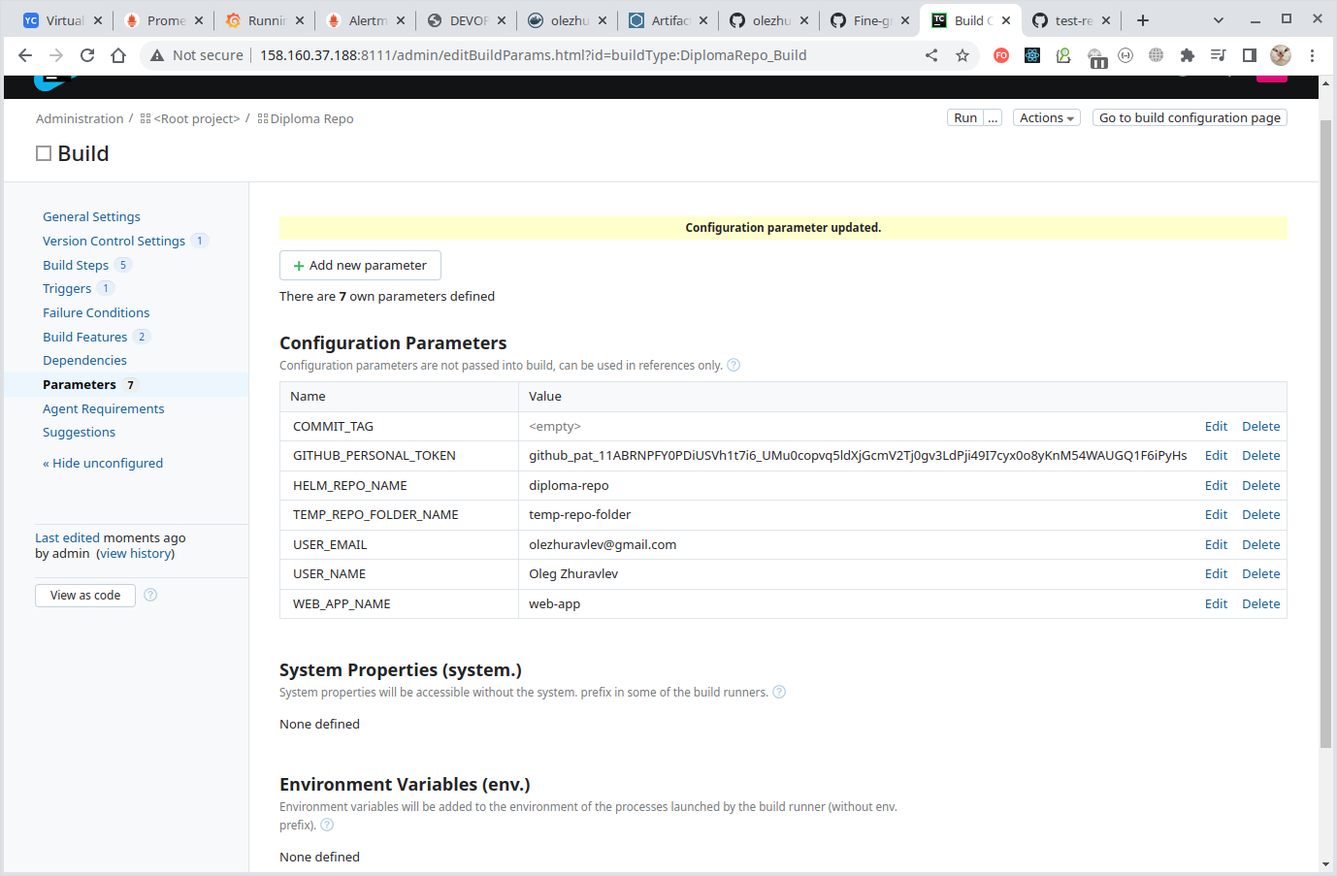
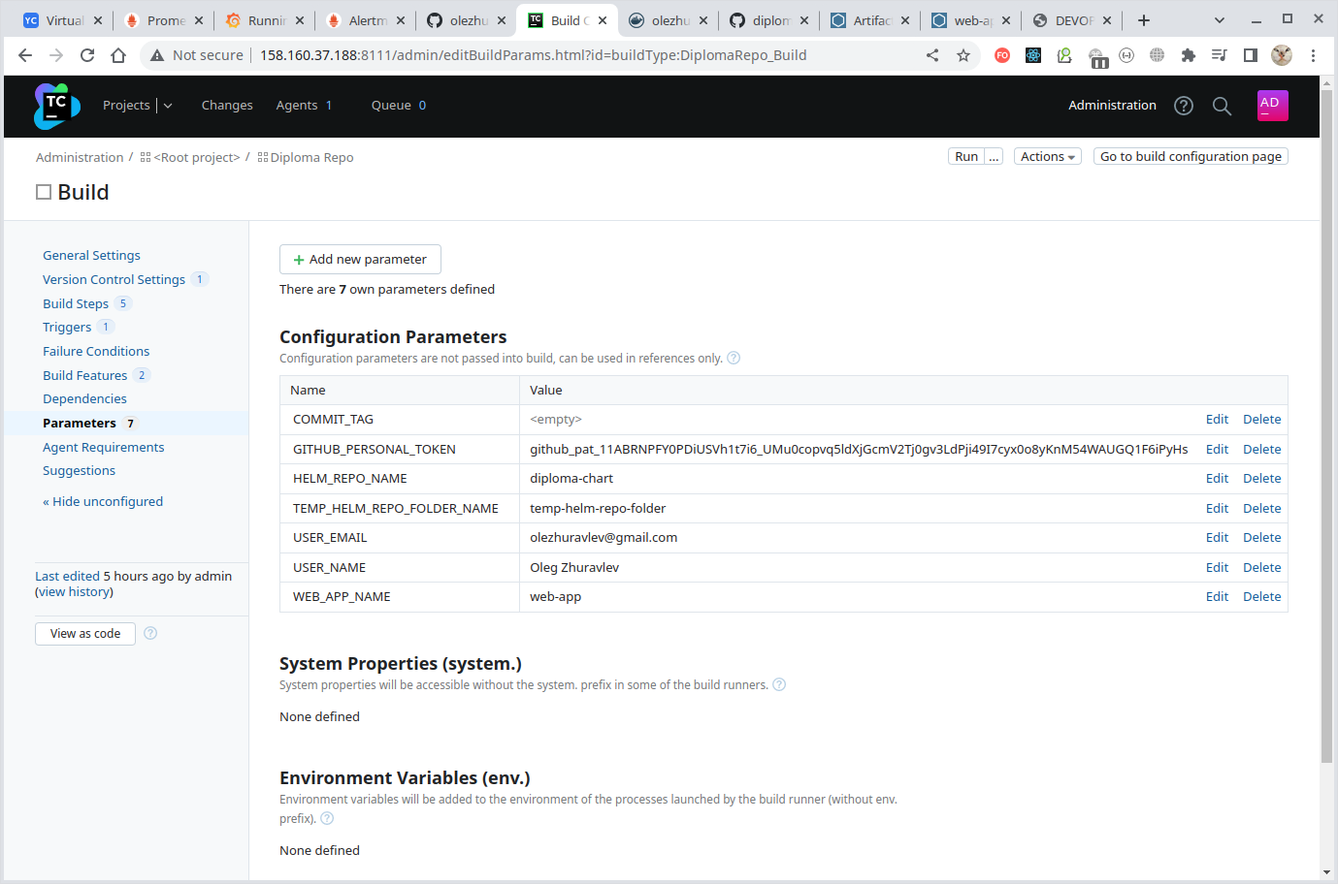
Nearly done.

diff --git a/16-diploma-yc/16.md b/16-diploma-yc/16.md
@@ -1583,7 +1583,7 @@ docker_container:
 
 > Команда `docker -v` возвращает только номер версии **клиента** Docker.
 
-#### Настройка процедуры сборки в Teamcity
+#### Предварительная настройка Teamcity
 
 После установки и запуска как сервера, так и агента Teamcity необходимо сконфигурировать процесс сборки.
 
@@ -1646,6 +1646,22 @@ Teamcity использует базу данных для хранения на
 
 ![tc_build_features_done.png](./images/tc_build_features_done.png)
 
+
+#### Настройка процедуры сборки в Teamcity
+
+Процедура сборки состоит из следующих шагов:
+
+| Шаг | Действие                                                                                        | Используемые команды                                                              |
+|:---:|:------------------------------------------------------------------------------------------------|:----------------------------------------------------------------------------------|
+|  1  | Получение тега последнего коммита в репозитории приложения                                      | git fetch<br/>git tag --points-at HEAD                                            |
+|  2  | Проверка соответствия коммита шаблону и сборка образа                                           | COMMIT_TAG matches [0-9]+\.[0-9]+\.[0-9]+<br/>docker build                        |
+|  3  | Отправка образа в Docker-репозиторий                                                            | docker push                                                                       |
+|  4  | Создание временной директории и получение в неё содержимого репозитория Helm                    | mkdir<br/>git clone                                                               |
+|  5  | Обновление файлов репозитория Helm, сохранение их в репозитории и удаление временной директории | sed -e<br/>helm package<br/>helm repo index<br/>git add<br/>git push<br/> rm -rdf |
+
+> Следует обращать внимание, что агент Teamcity должен иметь доступ ко всем инструментам, которые ему требуются
+> в процессе сборки, например, таким как Git или Helm!
+
 В логике нашей сборки мы хотим использовать тег, назначенный коммиту в качестве тега нашего Docker-образа.
 Для этого создадим отдельный этап, позволяющий выполнять произвольный код командной строки.
 Для этого на закладке "Build Step" выбирает тип шага "Command Line":
@@ -1654,7 +1670,7 @@ Teamcity использует базу данных для хранения на
 
 Далее, заходим в настройки этого шага задаём скрипт, который должен исполняться:
 
-![tc_step_1_cmd_retrieve_tag.png](./images/tc_step_1_cmd_retrieve_tag.png)
+![tc_step_1.png](images%2Ftc_step_1.png)
 
 **где:**
 - `commit_tag=$(git tag --points-at HEAD)` - команда получения тега последнего коммита Git и размещение
@@ -1677,137 +1693,132 @@ Teamcity использует базу данных для хранения на
 Далее следует зайти в редактирование второго шага нашей сборки - создание Docker-образа - и указать
 параметры создаваемого образа:
 
-![tc_step_2_docker_build.png](./images/tc_step_2_docker_build.png)
-
->  Обращаем внимание, что имя образа включает в себя отделённое слешем имя используемого репозитория
-> (здесь - это `olezhuravlev`)!
+![tc_step_2.png](./images/tc_step_2.png)
 
 Все необходимые поля будут заполнены автоматически, нам лишь нужно указать наименование
 собираемого образа и его тег, значение которого будет извлекаться из заполненной на первом шаге
 переменной `COMMIT_TAG`.
 
-Создадим шаг по отправке собранного образа в репозиторий. Для этого возвращаемся в настройки сборки
-(сборка -> кнопка "Edit configuration") и на закладке "Build Steps" добавляем новый шаг:
+>  Обращаем внимание, что имя образа предваряется именем используемого репозитория, обычно совпадающего с именем
+> пользователя Github (здесь - это `olezhuravlev`)!
+> 
+> Кроме того, т.к. мы хотим следовать **принципу семантического версионирования**, то дополнительно настроим требование
+> к тегу, присвоенному коммиту и используемому на 2-м и 3-м шагах сборки. Для этого добавим условие
+> выполнения шага:
+>
+> ![tc_step_2_add_condition.png](./images/tc_step_2_add_condition.png)
+>
+> Зададим условие, что тег должен состоять из трех чисел, разделенных точкой, что соответствует шаблону обозначения
+> версий, как `MAJOR.MINOR.PATCH` и может быть определено регулярным выражением `[0-9]+\.[0-9]+\.[0-9]+`:
+>
+> ![tc_step_2_condition.png](./images/tc_step_2_condition.png)
+
+Следующим создадим шаг по отправке собранного образа в репозиторий. Для этого в настройках сборки
+(сборка -> кнопка "Edit configuration") на закладке "Build Steps" добавляем новый шаг для Docker:
 
 ![tc_step_docker.png](./images/tc_step_docker.png)
 
 Настройки здесь в целом такие же, как на этапе `docker build`, но команда будет `push`, а также следует указать, 
 что шаг будет выполняться только если статус сборки успешный:
 
-![tc_step_3_docker_push.png](./images/tc_step_3_docker_push.png)
+![tc_step_3.png](images%2Ftc_step_3.png)
 
-> Т.к. мы хотим следовать **принципу семантического версионирования**, то дополнительно настроим требование к тегу,
-> присвоенному коммиту и используемому на 2-м и 3-м шагах сборки. Для этого вернёмся к шагу №2 и добавим условие
-> выполнения шага:
->
-> ![tc_step_2_add_condition.png](./images/tc_step_2_add_condition.png)
->
-> Зададим условие, что тег должен состоять из трех чисел, разделенных точкой, что соответствует шаблону обозначения
-> версий, как `MAJOR.MINOR.PATCH` и может быть определено регулярным выражением `[0-9]+\.[0-9]+\.[0-9]+`: 
->
-> ![tc_step_2_condition.png](./images/tc_step_2_condition.png)
->
-> После добавления условия шаг №2 будет выглядеть следующим образом: 
->
-> ![tc_step_2_with_condition.png](./images/tc_step_2_with_condition.png)
-
-Настройка в целом закончена, и в итоге состав наших шагов будет выглядет следующим образом:
-
-![tc_steps_1_3.png](./images/tc_steps_1_3.png)
-
-Нажатием кнопки "Run" запустим сборку, которая успешно проходит:
-
-![tc_build_done.png](images/tc_build_done.png)
-
-После успешного прохождения сборки собранный образ оказывается в нашем репозитории Dockerhub:
-
-![dockerhub_004.png](images/dockerhub_004.png)
-
-> Если на этапе сборки происходит ошибка:
->
-> ![dockerhub_denied.png](images/dockerhub_denied.png)
->
-> То это значит, что не выполнен этап включения поддержки "Docker", выполняемый на закладке "Build Features".
-
-#### Настройка процедуры обновления версии в кластере Kubernetes
-
-Веб-приложение попадает в кластер посредством Kubernetes-репозитория Helm, размещенного отдельно от репозитория
-с веб-приложением и привязанного к Helm-артефакторию. Корректное обновление артефактория состоит из следующих
-этапов:
+Следующим шагом добавим действие по получению содержимого Git-репозитория, связанного с Helm-артефакторием.
+Здесь следует пояснить, что в нашем решении Веб-приложение попадает в кластер посредством артефактория Helm
+и связанного с ним Git-репозитория, размещенного отдельно от репозитория с веб-приложением.
+Корректное обновление артефактория состоит из следующих этапов:
 - обновление номера версии приложения файлах [values.yaml](./helm/web-app/values.yaml) и [Chart.yaml](./helm/web-app/Chart.yaml);
 - создание Helm-архива командой `helm package web-app -d charts`;
 - обновление индексного файла Helm `index.yaml` командой `helm repo index charts`;
 - оправка нового содержимого Git-репозиторий, привязанного к Helm-артефактория (следует обратить внимание, что это не
-тот репозиторий, где хранится код приложения);
+  тот репозиторий, где хранится код приложения);
 
 После того, как в Git-репозитории, привязанном к Helm-артефакторию, окажется новое содержимое, то Helm-артефакторий
 обнаружит изменения в файле `index.yaml` и автоматически обновит ссылки, проверив перед этим присутствие корректного
 образа в Dockerhub.
 
-Реализуем работу данной схемы, используя Teamcity.
+Данная процедура реализована на 4-м и 5-м шагах нашей сборки.
 
-| Шаг | Действие                                                                                        | Используемые команды                                                              |
-|:---:|:------------------------------------------------------------------------------------------------|:----------------------------------------------------------------------------------|
-|  1  | Получение тега последнего коммита в репозитории приложения                                      | git tag --points-at HEAD                                                          |
-|  2  | Проверка соответствия коммита шаблону и сборка образа                                           | COMMIT_TAG matches [0-9]+\.[0-9]+\.[0-9]+<br/>docker build                        |
-|  3  | Отправка образа в Docker-репозиторий                                                            | docker push                                                                       |
-|  4  | Создание временной директории и получение в неё содержимого репозитория Helm                    | mkdir<br/>git clone                                                               |
-|  5  | Обновление файлов репозитория Helm, сохранение их в репозитории и удаление временной директории | sed -e<br/>helm package<br/>helm repo index<br/>git add<br/>git push<br/> rm -rdf |
+На 4-м шаге мы просто создаём временную папку и клонируем туда содержание репозитория. Все действия выполняются
+утилитами командной строки:
 
-> Следует обращать внимание, чтобы агент Teamcity имел доступ ко всем инструментам, которые ему требуются
-> в процессе сборки, таким как Git или Helm!
+![tc_step_4.png](images%2Ftc_step_4.png)
 
-В итоге шаги сборки выглядят следующим способом:
+> Здесь следует обратить внимание, для доступа к Git-репозиторию мы используем аутентификацию с помощью персонального
+> токена, полученного от Github с ограниченным доступом к требуемому git-репозиторию, связанному с артефакторием Helm:
+>
+> ![github_token.png](./images/github_token.png)
+>
+> Для подключения по HTTPS этот токен применяется в составе следующего шаблона:
+>
+> ````bash
+> https://<github-username>:<github-token>@github.com/<github-repository>.git
+> ````
+>
+> При этом имя `github`-репозитория предваряется именем пользователя, т.к. нашем случае шаблон применяется
+> следующим образом:
+>
+>````bash
+>$ git clone https://olezhuravlev:%GITHUB_PERSONAL_TOKEN%@github.com/olezhuravlev/%HELM_REPO_NAME%.git;
+> ````
 
-![tc_steps_1_5.png](./images/tc_steps_1_5.png)
+И последним, 5-м шагом будет модификация файлов Git-репозитория, связанного с Helm-артефакторием. Здесь нам нужно изменить
+версии приложения в двух файлах -  `Chart.yaml` и `values.yaml`, после чего создать Helm-архив и индексный файл новой
+версии. Все действия, как и на предыдущем шаге, выполняются утилитами командной строки:
 
-Здесь следует обратить внимание, для доступа к Git-репозиторию мы используем аутентификацию с помощью персонального
-токена, полученного от Github с ограниченным доступом к требуемому git-репозиторию, связанному с артефакторием Helm:
+![tc_step_5.png](images%2Ftc_step_5.png)
 
-![github_token.png](images%2Fgithub_token.png)
+По окончании этого шага созданная временная папка удаляется.
 
-Для подключения по HTTPS этот токен применяется в составе следующего шаблона:
-
-````bash
-https://<github-username>:<github-token>@github.com/<github-repository>.git
-````
-
-При этом имя github-репозитория указывается вместе с именем пользователя, т.к. нашем случае шаблон применяется
-следующим образом:
-
-````bash
-git clone https://olezhuravlev:%GITHUB_PERSONAL_TOKEN%@github.com/olezhuravlev/%HELM_REPO_NAME%.git;
-````
-
-Выражения, обрамлённые с помощью символа `%` - это параметры, заданные в Teamcity. По итогу используется следующий
-набор параметров:
-
-![tc_params.png](images%2Ftc_params.png)
-
-
+Полностью примененный на этом шаге скрипт выглядит следующим образом:
 
 ````bash
-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
+cd %TEMP_HELM_REPO_FOLDER_NAME%/%HELM_REPO_NAME%;
+
+# Update chart version.
+cd %WEB_APP_NAME%;
+cat Chart.yaml | sed -e "s/version:.*/version: %COMMIT_TAG%/" > Chart.tmp.yaml
+mv Chart.tmp.yaml Chart.yaml
+
+cat Chart.yaml | sed -e "s/appVersion:.*/appVersion: \"%COMMIT_TAG%\"/" > Chart.tmp.yaml
+mv Chart.tmp.yaml Chart.yaml
+
+# Update image tag.
+cat values.yaml | sed -e "s/tag:.*/tag: \"%COMMIT_TAG%\"/" > values.tmp.yaml
+mv values.tmp.yaml values.yaml
+
+cd ..;
+
+# Create Helm-archive.
+helm package %WEB_APP_NAME% -d charts;
+
+# Update Helm-index file.
+helm repo index charts;
+
+# Update repository.
+git add .;
+git config --global user.email "%USER_EMAIL%"
+git config --global user.name "%USER_NAME%"
+git commit -m "Build #%build.number%"
+git push origin -f;
+
+# Cleanout.
+cd ..;
+rm test/ -rdf;
+
+# Update previous commit tag.
+echo "##teamcity[setParameter name='PREV_COMMIT_TAG' value='$commit_tag']"
 ````
 
-Статус именованного Helm-релиза:
-````bash
-$ helm status web-app              
-NAME: web-app
-LAST DEPLOYED: Wed Jan 25 12:24:13 2023
-NAMESPACE: default
-STATUS: deployed
-REVISION: 3
-TEST SUITE: None
-NOTES:
-Welcome to "web-app" (A demo Helm chart for Kubernetes) version "0.0.6" for namespace "default",
-for current namespace "",
-proudly build from repository "olezhuravlev/diploma".
+Настройка в целом закончена, и в итоге состав наших шагов будет выглядет следующим образом:
 
-Release revision: 3
+![tc_steps_1_5.png](images%2Ftc_steps_1_5.png)
 
-This is installation: false
-````
+Осталось выполнить последний этап процесса - обновление нашего работающего в кластер веб-приложения до последней версии.
+Для этого существует множество способов, но мы воспользуемся
+[CRON-планировщиком](/run/media/oleg/Second/Netology/devops-diploma-yandexcloud/16-diploma-yc/ansible/infrastructure/playbooks/deploy-web-app-cron.ansible.yaml),
+запускающегося каждые 30 минут на контрольном узле кластера и выполняющего несложный скрипт обновления репозитория Helm
+(иначе новая версия приложения не будет видна) и обновления приложения:
 
 ````bash
 ubuntu@cp1:~$ helm repo update
@@ -1838,6 +1849,104 @@ This is installation: false
 This is upgrade: true
 ````
 
+В виде CRON-расписание выполнение процедуры обновленя выглядит следующим образом:
+
+````bash
+ubuntu@cp1:/usr/local/bin$ crontab -l
+#Ansible: helm-web-app-update-30min
+*/30 * * * * /usr/local/bin/helm repo add diploma-chart https://olezhuravlev.github.io/diploma-chart/charts/; /usr/local/bin/helm repo update; /usr/local/bin/helm upgrade --install web-app diploma-chart/web-app --atomic;
+````
+
+
+#### Итоговая проверка процедуры сборки в Teamcity
+
+Т.к. конечным этапом всего цикла сборки является обновление рабочей нагрузки (веб-приложения) в работающем кластере
+Kubernetes, то отметим состояние веб-приложения до начала автоматизированной сборки. Ориентироваться будем на
+версию приложения и здесь она `0.0.7`:
+
+![webapp_007.png](images%2Fwebapp_007.png)
+
+Обновим наше веб-приложение, присвоим коммиту версию `0.0.8` и отправим её в репозиторий:
+
+````bash
+commit c952e6818d15c507fee228d373314cedb3ed1833 (HEAD -> main, tag: 0.0.8, origin/main)
+Author: Oleg Zhuravlev <olezhuravlev@gmail.com>
+Date:   Wed Jan 25 14:46:40 2023 +0100
+
+    Version 0.0.8
+
+commit fd3b892585c7948393ce026a48b604d786628dfd (tag: 0.0.7)
+Author: Oleg Zhuravlev <olezhuravlev@gmail.com>
+Date:   Wed Jan 25 13:47:01 2023 +0100
+
+    Version 0.0.7
+...
+````
+
+![github_008.png](images%2Fgithub_008.png)
+
+Обнаружив новый коммит с тегов в Git-репозитории, Teamcity запустит сборку, которая успешно выполняется:
+
+![tc_build_success.png](images%2Ftc_build_success.png)
+
+Мы видим, что обнаружен тег с номером `0.0.8` - это именно тот тег, который мы присвоили очередному коммиту.
+
+После успешного прохождения сборки собранный образ оказывается в нашем репозитории Dockerhub:
+
+![dockerhub_008.png](images%2Fdockerhub_008.png)
+
+> Если на этапе сборки происходит ошибка:
+>
+> ![dockerhub_denied.png](images/dockerhub_denied.png)
+>
+> То это значит, что не выполнен этап включения поддержки "Docker", выполняемый на закладке "Build Features"!
+
+Также окажется обновленным Helm-архив в Git-репозитории, связанным с Helm-артифакторием:
+
+![github_chart_008.png](images%2Fgithub_chart_008.png)
+
+Спустя некоторое время (~30 минут) обновляется и Helm-артифакторий:
+
+![artifactory_008.png](images%2Fartifactory_008.png)
+
+Каждые 30 минут срабатывает расписание CRON, которое обновляет чарт и, соответственно, обновляется наше веб-приложение:
+
+![webapp_008.png](images%2Fwebapp_008.png)
+
+Таким образом, мы добились того, что при появлении в репозитории нового релиза приложения, выполняется полный цикл
+развертывания приложения.
+
+Кратко схему взаимодействия можно представить следующим образом:
+
+![build_diagramm.jpg](images%2Fbuild_diagramm.jpg)
+
+
+
+
+
+
+
+Статус именованного Helm-релиза:
+````bash
+$ helm status web-app              
+NAME: web-app
+LAST DEPLOYED: Wed Jan 25 12:24:13 2023
+NAMESPACE: default
+STATUS: deployed
+REVISION: 3
+TEST SUITE: None
+NOTES:
+Welcome to "web-app" (A demo Helm chart for Kubernetes) version "0.0.6" for namespace "default",
+for current namespace "",
+proudly build from repository "olezhuravlev/diploma".
+
+Release revision: 3
+
+This is installation: false
+````
+
+
+
 ````bash
 ubuntu@cp1:~$ crontab -l
 #Ansible: test
@@ -1860,9 +1969,9 @@ Rollback was a success! Happy Helming!
 
 Список задач CRON:
 ````bash
-ubuntu@cp1:~$ crontab -l
-#Ansible: test
-*/2 * * * * helm repo update; helm upgrade --install web-app diploma-chart/web-app;
+ubuntu@cp1:/usr/local/bin$ crontab -l
+#Ansible: helm-web-app-update-30min
+*/30 * * * * /usr/local/bin/helm repo add diploma-chart https://olezhuravlev.github.io/diploma-chart/charts/; /usr/local/bin/helm repo update; /usr/local/bin/helm upgrade --install web-app diploma-chart/web-app --atomic;
 ````
 
 Удалить все задачи CRONTAB:
@@ -1882,7 +1991,8 @@ total 8
 
 Логи CRON:
 ````bash
-$ grep CRON /var/log/syslog
+ubuntu@cp1:/usr/local/bin$ grep CRON /var/log/syslog
+Jan 25 15:00:01 cp1 CRON[348047]: (ubuntu) CMD (/usr/local/bin/helm repo add diploma-chart https://olezhuravlev.github.io/diploma-chart/charts/; /usr/local/bin/helm repo update; /usr/local/bin/helm upgrade --install web-app diploma-chart/web-app --atomic;)
 ````
 
 ````bash
